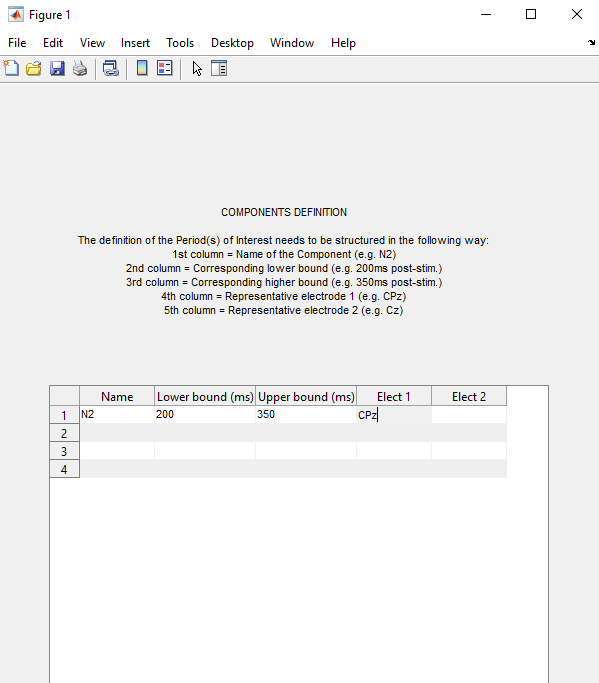
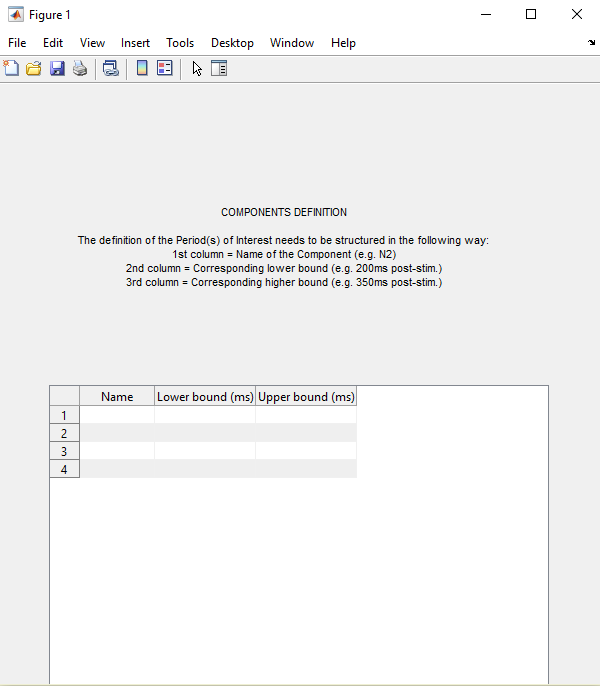
Updated the screenshots

diff --git a/GFPPeaks.m b/GFPPeaks.m
@@ -170,8 +170,8 @@ to_display = cell(4,3);
 ScreenSize=get(0,'ScreenSize');
 f = figure('Position', [ScreenSize(3)/2-500/2 ScreenSize(4)/2-500/2 600 600]);
 p = uitable('Parent', f,'Data',to_display,'ColumnEdit',true(1,size(to_display,2)),'ColumnName',...
-    {'Name','Lower bound (ms)','Upper bound (ms)','Elect 1','Elect 2'},'CellEditCallBack','CompList = get(gco,''Data'');');
-p.Position = [50 -100 500 400];
+    {'Name','Lower bound (ms)','Upper bound (ms)'},'Position',[50 -100 500 400],...
+    'CellEditCallBack','CompList = get(gco,''Data'');');
 uicontrol('Style', 'text', 'Position', [60 350 450 130], 'String',...
         {['COMPONENTS DEFINITION' newline ''],['The definition of the Period(s) of Interest needs to be structured in the following way:'...
         newline '1st column = Name of the Component (e.g. N2)',...
